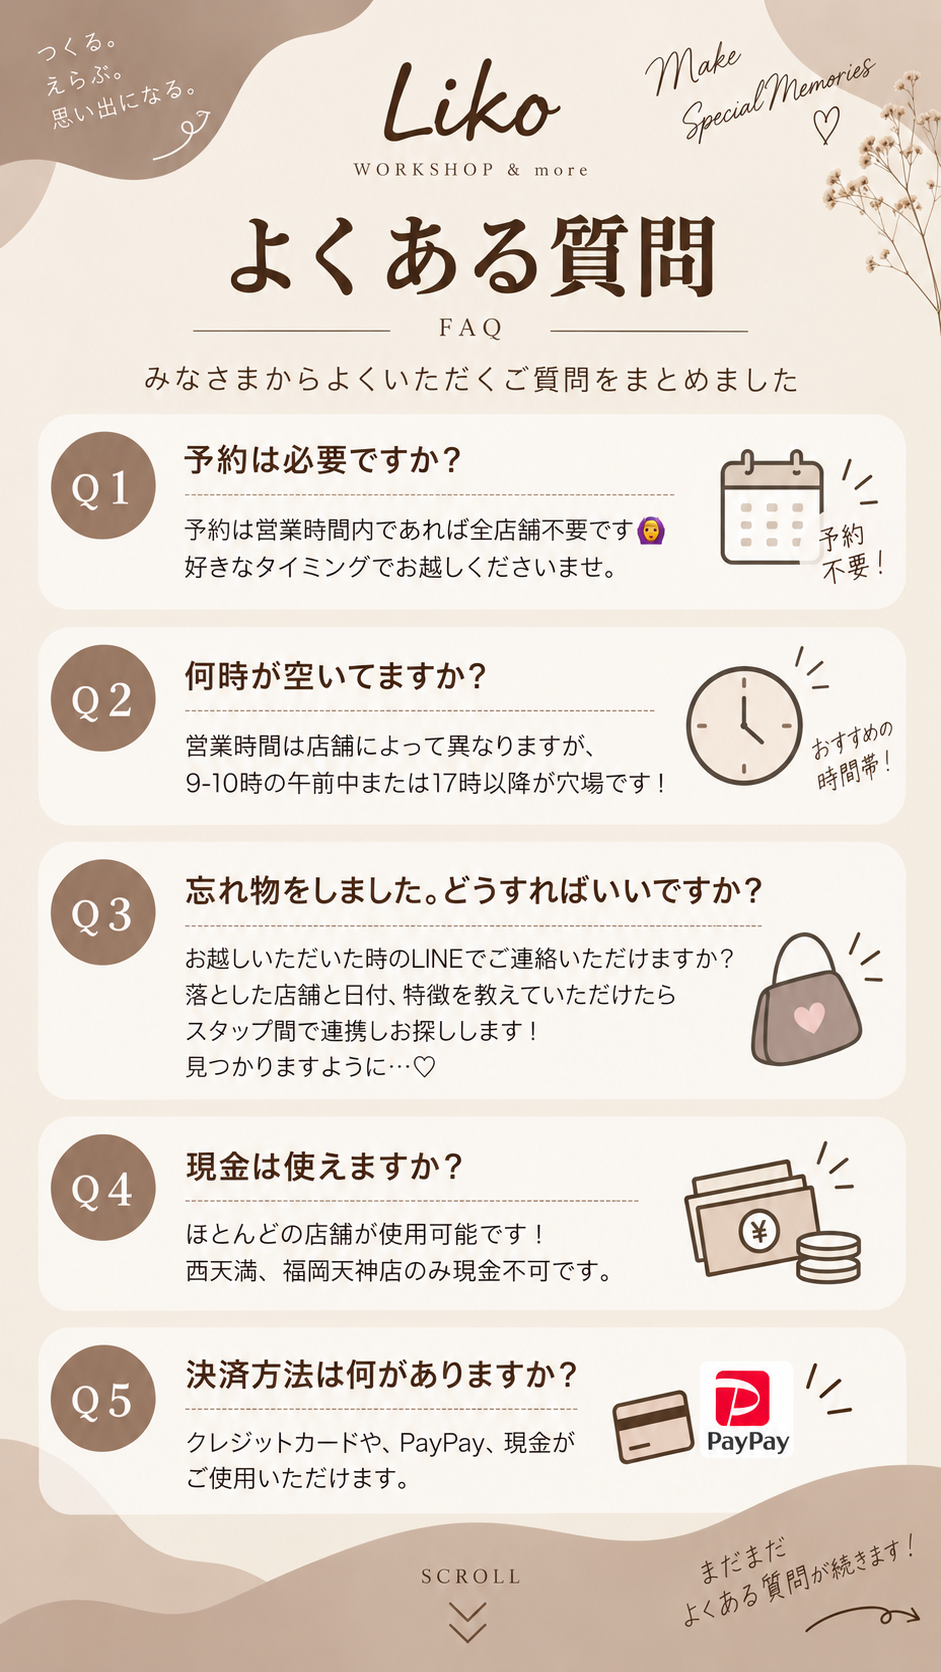
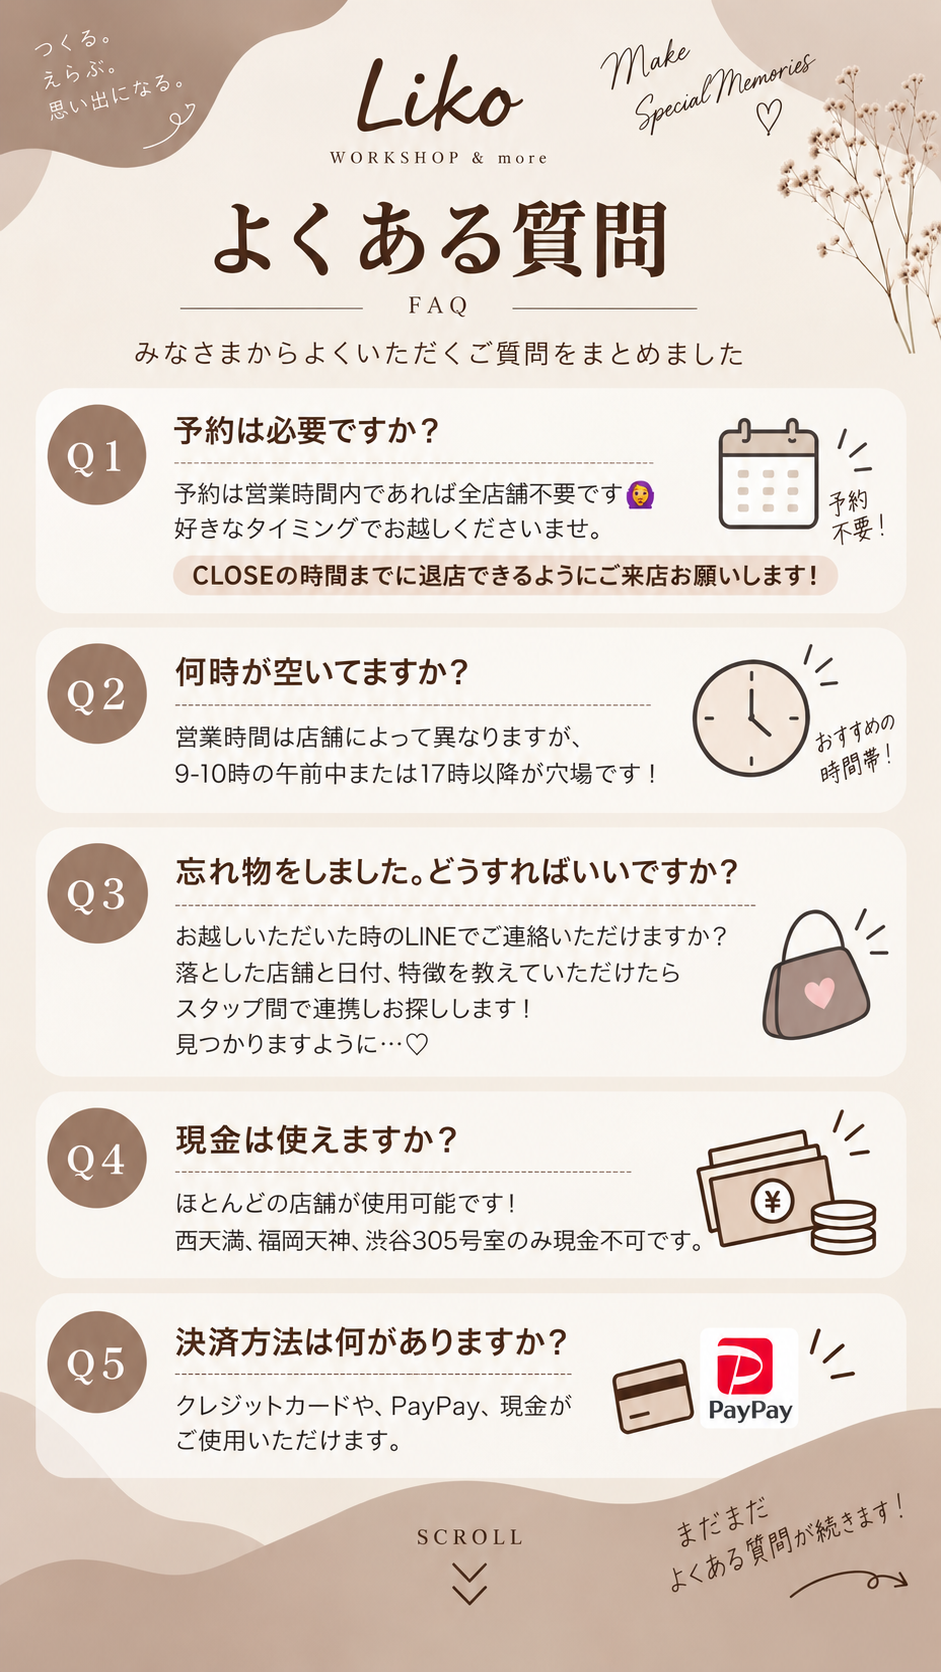
TOP6ボタン版に更新・無人店舗とは？画面追加・FAQ3枚化（クライアント修正版画像）

Changed region(s): [[0.0, 0.0, 1.0, 0.9952], [0.6472, 0.0, 1.0, 0.2177], [0.0, 0.0, 0.2774, 0.1555]]

diff --git a/inquiry/index.html b/inquiry/index.html
@@ -153,12 +153,13 @@ a.cta{text-decoration:none;display:block}
     <div class="body" style="padding:0;gap:0">
       <div style="position:relative;width:100%">
         <img src="../assets/inquiry_top.png" alt="思い出作りなら、Liko。" style="width:100%;display:block">
-        <!-- 画像内ボタンに合わせた透明タップ領域（%座標・画像941x1672基準） -->
-        <div onclick="go('access')"  style="position:absolute;left:4.5%;top:64.5%;width:45%;height:9.3%;cursor:pointer"></div>
-        <div onclick="go('welcomeFlow')" style="position:absolute;left:51%;top:64.5%;width:45%;height:9.3%;cursor:pointer"></div>
-        <div onclick="go('reserve')" style="position:absolute;left:4.5%;top:74.2%;width:45%;height:9.3%;cursor:pointer"></div>
-        <div onclick="go('contact')" style="position:absolute;left:51%;top:74.2%;width:45%;height:9.3%;cursor:pointer"></div>
-        <div onclick="go('faq')"     style="position:absolute;left:4.5%;top:83.8%;width:91.5%;height:5.8%;cursor:pointer"></div>
+        <!-- 画像内ボタンに合わせた透明タップ領域（%座標・6ボタン版トップ画像基準） -->
+        <div onclick="go('access')"      style="position:absolute;left:4.5%;top:60.2%;width:44%;height:8.8%;cursor:pointer"></div>
+        <div onclick="go('welcomeFlow')" style="position:absolute;left:51.5%;top:60.2%;width:44%;height:8.8%;cursor:pointer"></div>
+        <div onclick="go('reserve')"     style="position:absolute;left:4.5%;top:69.4%;width:44%;height:8.8%;cursor:pointer"></div>
+        <div onclick="go('contact')"     style="position:absolute;left:51.5%;top:69.4%;width:44%;height:8.8%;cursor:pointer"></div>
+        <div onclick="go('faq')"         style="position:absolute;left:4.5%;top:78.5%;width:44%;height:6.8%;cursor:pointer"></div>
+        <div onclick="go('unmanned')"    style="position:absolute;left:51.5%;top:78.5%;width:44%;height:6.8%;cursor:pointer"></div>
       </div>
     </div>
   </section>
@@ -194,6 +195,20 @@ a.cta{text-decoration:none;display:block}
     <div class="body" style="padding:0;gap:0">
       <img src="../assets/inquiry_faq1.png" alt="よくある質問 1" style="width:100%;display:block">
       <img src="../assets/inquiry_faq2.png" alt="よくある質問 2" style="width:100%;display:block">
+      <img src="../assets/inquiry_faq3.png" alt="よくある質問 3" style="width:100%;display:block">
+    </div>
+  </section>
+
+  <!-- 0-5. 無人店舗とは？ -->
+  <section class="screen" data-scr="unmanned">
+    <div class="hdr"><i class="ti ti-chevron-left back" onclick="back()"></i><span class="ttl">無人店舗とは？</span></div>
+    <div class="body" style="padding:0;gap:0">
+      <img src="../assets/inquiry_unmanned1.png" alt="無人営業とは 1" style="width:100%;display:block">
+      <img src="../assets/inquiry_unmanned2.png" alt="無人営業とは 2" style="width:100%;display:block">
+      <img src="../assets/inquiry_unmanned3.png" alt="無人営業とは 3" style="width:100%;display:block">
+      <img src="../assets/inquiry_unmanned4.png" alt="無人営業とは 4" style="width:100%;display:block">
+      <img src="../assets/inquiry_unmanned5.png" alt="無人営業とは 5" style="width:100%;display:block">
+      <img src="../assets/inquiry_unmanned6.png" alt="無人営業とは 6" style="width:100%;display:block">
     </div>
   </section>
 
